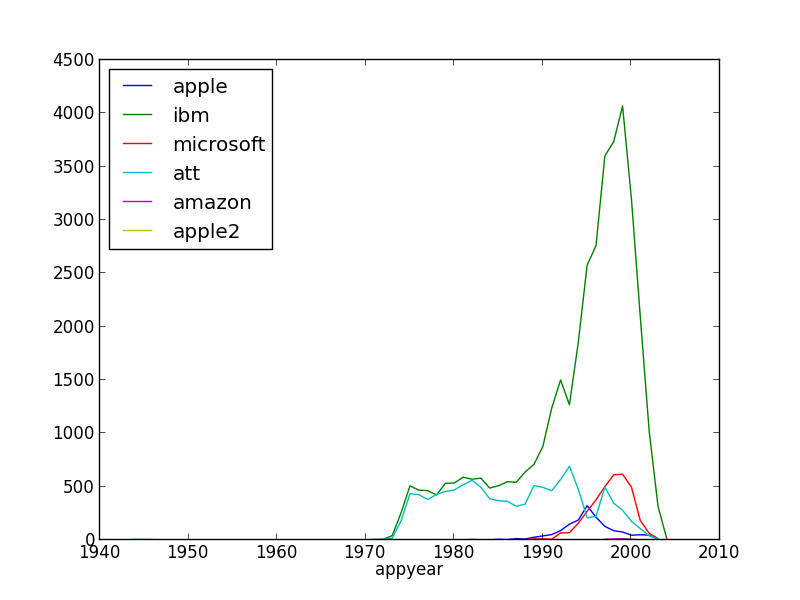
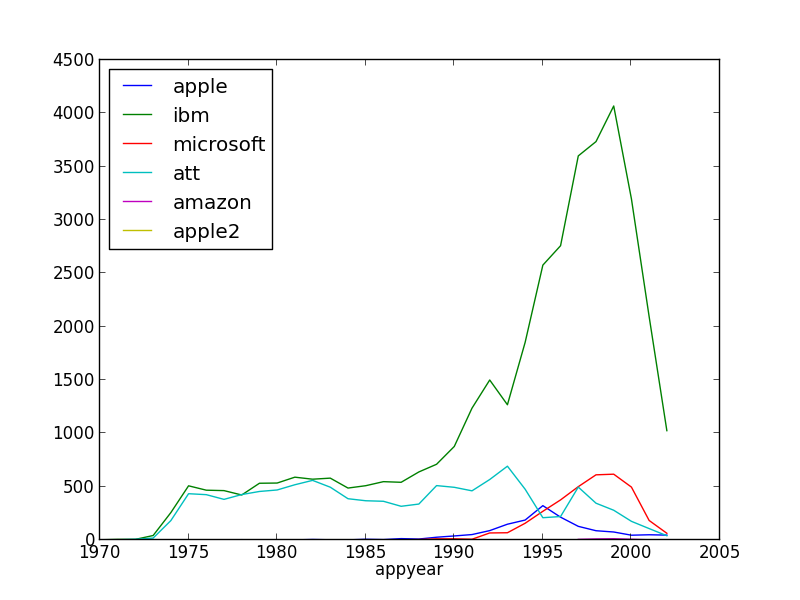
Stop plots at 2002

diff --git a/scripts/summary_stats.py b/scripts/summary_stats.py
@@ -126,9 +126,9 @@ fig = plt.figure()
 ax1 = fig.add_subplot(111)
 fig1, ax1 = by_year(df, ax=ax1)
 ax1.set_title('Patents by Application Year')
-ax1.set_xlim(1970, 2010)
-ax1.set_yscale('log')
-fig.tight_layout()
+ax1.set_xlim(1970, 2002)
+# ax1.set_yscale('log')
+# fig.tight_layout()
 plt.savefig('../resources/application_year.png', dpi=300)
 
 # By grant year, adjusted and unadjusted
@@ -136,9 +136,9 @@ fig = plt.figure()
 ax1 = fig.add_subplot(111)
 fig1, ax1 = by_year(df, ax=ax1, year_col='gyear')
 ax1.set_title('Patents by Grant Year')
-ax1.set_xlim(1970, 2010)
-ax1.set_yscale('log')
-fig.tight_layout()
+ax1.set_xlim(1970, 2002)
+# ax1.set_yscale('log')
+# fig.tight_layout()
 plt.savefig('../resources/grant_year.png', dpi=300)
 
 # All and tech by country:
@@ -169,11 +169,11 @@ plt.savefig('../resources/by_country_normalized.png', dpi=300)
 
 fig3 = plt.figure()
 fig3, ax3 = year_and_country(df, ind=idx, adj=True)
-ax3.set_xlim(1970)
+ax3.set_xlim(1970, 2002)
 
 fig4 = plt.figure()
 fig4, ax4 = by_year(t)
-ax4.set_xlim(1970)
+ax4.set_xlim(1970, 2002)
 
 
 fig6 = plt.figure()

diff --git a/scripts/companies.py b/scripts/companies.py
@@ -57,7 +57,7 @@ inv_d = {d[k]: k for k in d}
 
 sub = df[df['uspto_assignee'].isin(d.values())]
 gr = sub.groupby(['uspto_assignee', 'appyear'])
-cts = gr['patent'].count().unstack(level='uspto_assignee')
+cts = gr['patent'].count().unstack(level='uspto_assignee').ix[1970:2002]
 cts = cts.rename(columns=inv_d)
 ax = cts.plot()
 plt.savefig('../resources/by_company.png')
